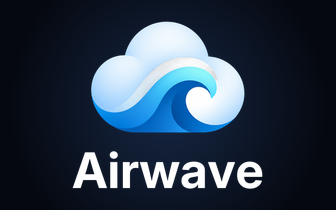
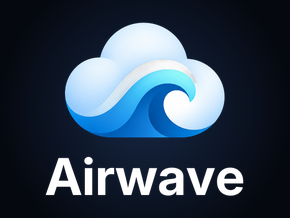
fix: v0.10.65 — Roku store-submission fixes (malformed download, cert pre-scan, launch crash)
Roku Channel Store submission: the real "malformed package" fix + a full pass over Roku's
certification pre-scan, plus a launch-crash fix.

- "Channel package is malformed" was a CORRUPTED DOWNLOAD, not the format: roku-deploy 3.18.2's
  needle HTTP shim decodes the binary .pkg as UTF-8 (every high byte -> U+FFFD), mangling ~1/4 of
  the file. package-roku.ts now downloads the signed .pkg with curl (binary-safe) and verifies 0
  replacement bytes before success.
- Launch crash (&hf4): the memory-monitoring calls used method names from Roku's cert-checker
  wording that aren't real roDeviceInfo methods on current firmware -> hard crash at launch. Now
  wrapped in try/catch (verified booting on the Stick 4K).
- Cert hardening: roInput deep-link handling (main.bs -> MainScene/Guide deepLinkChannelId);
  AppLaunchComplete + AppDialogInitiate/Complete performance beacons; removed deprecated subtitle=
  manifest attr; HD focus icon regenerated at 290x218.
- Packaging: ship SQUASHFS_ZSTD (min firmware v11.0.0 b1); convertToSquashfs:false widens to ~v8.0.

Claude-Session: https://claude.ai/code/session_0141ntBdutphMZLw7DW5jUYJ

diff --git a/apps/tv-roku/scripts/package-roku.ts b/apps/tv-roku/scripts/package-roku.ts
@@ -4,23 +4,35 @@
  *   pnpm -F tv-roku package        (runs `bsc` first, then this — see package.json)
  *
  * Assumes `bsc` has already transpiled the app into out/staging (the `package` npm script chains it).
- * Then it drives roku-deploy's deployAndSignPackage against the Roku in rokudeploy.json: it zips staging,
- * sideloads it, signs the installed channel with your signingPassword, and downloads the signed .pkg —
- * which you upload to the Roku Developer Dashboard.
+ * Then, against the Roku in rokudeploy.json: it zips staging + sideloads (roku-deploy `deploy`), converts
+ * the installed channel to **squashfs** (required by the Channel Store), and **signs** it on-device with
+ * your signingPassword (roku-deploy `signExistingPackage`). Finally it downloads the signed .pkg with
+ * **curl** — NOT roku-deploy's own downloader.
+ *
+ * ⚠ WHY curl instead of roku-deploy's deployAndSignPackage/retrieveSignedPackage: roku-deploy 3.18.2
+ *   swapped its HTTP layer to a `needle` shim whose streaming GET decodes the BINARY .pkg as UTF-8 — every
+ *   high byte collapses to U+FFFD (ef bf bd), corrupting ~1/4 of the file. The device signs a perfect
+ *   package; roku-deploy mangles it on download → the dashboard rejects it as "channel package is
+ *   malformed". curl (digest auth, binary) is what the manual "download the purple link" step does, and is
+ *   what our grab-screenshot script already uses reliably.
  *
  * Prereqs:
  *   • `pnpm -F tv-roku genkey` has been run once (rokudeploy.json has signingPassword + devId).
- *   • The Roku is awake + in Developer Mode and reachable at rokudeploy.json `host`.
+ *   • The Roku is awake + in Developer Mode, and (for signing) LINKED to your Roku account + online.
  *
  * The signed package lands at out/airwave-<version>.pkg (version read from the manifest).
  */
 import { rokuDeploy } from "roku-deploy";
-import { copyFileSync, readFileSync, statSync } from "node:fs";
+import { execFileSync } from "node:child_process";
+import { readFileSync, statSync } from "node:fs";
 import { dirname, join } from "node:path";
 import { fileURLToPath } from "node:url";
 
 const APP = join(dirname(fileURLToPath(import.meta.url)), "..");
 const cfg = JSON.parse(readFileSync(join(APP, "rokudeploy.json"), "utf8"));
+const HOST = cfg.host;
+const USER = cfg.username || "rokudev";
+const PASS = cfg.password;
 
 if (!cfg.signingPassword) {
   console.error(
@@ -30,40 +42,90 @@ if (!cfg.signingPassword) {
   process.exit(1);
 }
 
-/** Read major/minor/build from the manifest → "0.10.62". */
+/** Read major/minor/build from the manifest → "0.10.64". */
 function manifestVersion(): string {
   const m = readFileSync(join(APP, "manifest"), "utf8");
   const g = (k: string) => new RegExp(`^${k}=(\\d+)`, "m").exec(m)?.[1] ?? "0";
   return `${g("major_version")}.${g("minor_version")}.${g("build_version")}`;
 }
 
+/** Count 0xEF 0xBF 0xBD (UTF-8 replacement char) triples — the fingerprint of a UTF-8-mangled binary. */
+function replacementCharCount(buf: Buffer): number {
+  let n = 0;
+  for (let i = 0; i < buf.length - 2; i++) {
+    if (buf[i] === 0xef && buf[i + 1] === 0xbf && buf[i + 2] === 0xbd) n++;
+  }
+  return n;
+}
+
 async function main() {
   const version = manifestVersion();
-  console.log(`Airwave Roku v${version} → Roku ${cfg.host}: package + sign…`);
-  console.log("  (zip staging → sideload → sign with your key → download signed .pkg)\n");
-
-  // deployAndSignPackage uses rootDir/outDir/outFile/files/host/password from cfg + signingPassword to sign.
-  // It returns the local path of the downloaded signed .pkg (out/<outFile-basename>.pkg).
-  // ⚠ convertToSquashfs MUST be on: the Roku Channel Store rejects the older zip-based package as
-  // "channel package is malformed" (sideloading accepts it; the store requires squashfs). Default it on.
-  const signedPkg = await rokuDeploy.deployAndSignPackage({
+  // Compression = package FORMAT → minimum-firmware floor on the dashboard:
+  //   ZIP → v5.2 · CRAMFS → v7.7 · SQUASHFS → v8.0 · SQUASHFS_ZSTD → v11.0.
+  // DECISION (James): ship SQUASHFS_ZSTD (the latest, smallest format) and set the listing's Minimum
+  // Firmware to v11.0.0 b1. Our audience is 4K HDR boxes, which all run OS 11+, and v11 lets us use the
+  // full modern API surface (e.g. the memory-monitoring calls) unguarded. roku-deploy's convertToSquashfs
+  // produces the zstd variant on modern firmware, which is exactly what we want. (The earlier "malformed"
+  // was the download corruption, since fixed via curl — unrelated to the format.)
+  const squashfs = cfg.convertToSquashfs ?? true;
+  const opts = {
     ...cfg,
-    convertToSquashfs: cfg.convertToSquashfs ?? true,
+    convertToSquashfs: squashfs,
+    retainStagingDir: true, // signExistingPackage reads the manifest from staging for the app name
     rootDir: join(APP, cfg.rootDir),
     outDir: join(APP, cfg.outDir),
-  });
+  };
 
-  // Give it a versioned name alongside the default, so successive builds don't overwrite each other.
+  console.log(`Airwave Roku v${version} → Roku ${HOST}: package + sign…`);
+  console.log(`  (zip staging → sideload → ${squashfs ? "squashfs → " : ""}sign → curl-download signed .pkg)\n`);
+
+  process.stdout.write("  · sideloading… ");
+  await rokuDeploy.deploy(opts);
+  console.log("ok");
+
+  if (squashfs) {
+    process.stdout.write("  · converting to squashfs… ");
+    await rokuDeploy.convertToSquashfs(opts);
+    console.log("ok");
+  }
+
+  process.stdout.write("  · signing on-device… ");
+  const remotePkgPath = await rokuDeploy.signExistingPackage(opts); // e.g. "pkgs/Airwave_....pkg"
+  console.log(`ok (${remotePkgPath})`);
+
+  // Download the signed pkg with curl (binary-safe digest auth) — the roku-deploy downloader corrupts it.
   const versioned = join(APP, cfg.outDir, `airwave-${version}.pkg`);
-  copyFileSync(signedPkg, versioned);
-  const kb = (statSync(versioned).size / 1024).toFixed(0);
+  process.stdout.write("  · downloading (curl, binary)… ");
+  const code = execFileSync("curl", [
+    "-sS", "--digest", "-u", `${USER}:${PASS}`, "-m", "60",
+    "-o", versioned, "-w", "%{http_code}",
+    `http://${HOST}/${remotePkgPath.replace(/^\/+/, "")}`,
+  ]).toString().trim();
+  console.log(`HTTP ${code}`);
+  if (code !== "200") {
+    console.error(`\n✗ download failed (HTTP ${code}).\n`);
+    process.exit(1);
+  }
+
+  // Verify it's a real signed package and NOT UTF-8-corrupted.
+  const buf = readFileSync(versioned);
+  const header = buf.subarray(0, 16).toString("latin1");
+  const bad = replacementCharCount(buf);
+  const kb = (buf.length / 1024).toFixed(0);
+  if (!header.startsWith("Roku Channel Pak")) {
+    console.error(`\n✗ not a signed package (header: ${JSON.stringify(header)}). Is the device linked + online?\n`);
+    process.exit(1);
+  }
+  if (bad > 100) {
+    console.error(`\n✗ downloaded package is CORRUPTED (${bad} U+FFFD bytes). The download mangled the binary.\n`);
+    process.exit(1);
+  }
 
   console.log("━".repeat(72));
-  console.log(`  ✅  Signed package ready:  ${versioned}  (${kb} KB)`);
+  console.log(`  ✅  Signed package ready:  ${versioned}  (${kb} KB, clean binary)`);
   console.log("━".repeat(72));
-  console.log("  Upload this .pkg at developer.roku.com → your channel → Package Upload.");
-  console.log("  Reminder: the Channel Store version shown to users comes from the manifest");
-  console.log(`  (currently ${version}) — bump it (via /version-bump) before re-packaging an update.\n`);
+  console.log("  Upload at developer.roku.com → your channel → Package Upload. Minimum Firmware: v11.0.0 b1.");
+  console.log(`  Store version comes from the manifest (${version}) — bump before re-packaging an update.\n`);
 }
 
 main().catch((e) => {

diff --git a/apps/tv-roku/scripts/gen-channel-art.py b/apps/tv-roku/scripts/gen-channel-art.py
@@ -4,7 +4,7 @@ the app's dark radial gradient, at every size the Roku manifest + Channel Store 
 in `apps/tv-native/scripts/gen-app-icons.py`, adapted to Roku's sizes.
 
 Outputs (apps/tv-roku/images/) — these REPLACE the placeholder navy assets the manifest already points at:
-  - icon_focus_hd.png    336x210    home-screen focus icon   (manifest `mm_icon_focus_hd`)
+  - icon_focus_hd.png    290x218    home-screen focus icon   (manifest `mm_icon_focus_hd`)
   - icon_focus_fhd.png   540x405    home-screen focus icon   (manifest `mm_icon_focus_fhd`)
   - splash_hd.png        1280x720   boot splash              (manifest `splash_screen_hd`)
   - splash_fhd.png       1920x1080  boot splash              (manifest `splash_screen_fhd`)
@@ -122,7 +122,7 @@ def make_flat(name: str, w: int, h: int) -> None:
 
 # name, width, height, logo-fraction-of-canvas
 ICONS = [
-    ("icon_focus_hd.png", 336, 210, 0.80),
+    ("icon_focus_hd.png", 290, 218, 0.80),
     ("icon_focus_fhd.png", 540, 405, 0.76),
     ("store-poster-hd.png", 290, 218, 0.80),
     ("store-poster-fhd.png", 540, 405, 0.76),

diff --git a/CHANGELOG.md b/CHANGELOG.md
@@ -2,6 +2,38 @@
 
 All notable changes to Airwave are documented here.
 
+## [0.10.65] - 2026-08-18
+
+Roku **Channel Store submission**: the real "malformed package" fix + a full pass over Roku's certification
+pre-scan, plus a launch-crash fix.
+
+### Fixed
+
+- **"Channel package is malformed" was a CORRUPTED DOWNLOAD, not the format.** roku-deploy 3.18.2's `needle`
+  HTTP shim decodes the binary signed `.pkg` as UTF-8 on download — every high byte collapses to U+FFFD
+  (`ef bf bd`), mangling ~1/4 of the file so the dashboard rejects it. `package-roku.ts` now signs on-device
+  via `roku-deploy` but **downloads the `.pkg` with `curl`** (binary-safe digest auth), and verifies the result
+  has ~0 replacement bytes + a valid `Roku Channel Pak` header before declaring success.
+- **Roku launch crash** (`&hf4`, `EXIT_BRIGHTSCRIPT_UNK_FUNC`): the memory-monitoring calls used method names
+  from Roku's cert-checker wording (`EnableMemoryWarningEvent`, `GetMemoryLimitPercent`, …) that **aren't real
+  `roDeviceInfo` methods on current firmware** — calling them hard-crashed the app at launch. They're now
+  wrapped in `try/catch` so they degrade gracefully (verified booting on the Stick 4K).
+
+### Roku certification hardening (pre-scan pass)
+
+- **`roInput` deep-link handling** (`main.bs` → MainScene/Guide `deepLinkChannelId`) — the manifest already
+  declared `supports_input_launch=1`; the app now handles the events (and tunes a deep-linked channel if present).
+- **Performance beacons:** `AppLaunchComplete` when the guide first renders (`Guide.onGuide`), and
+  `AppDialogInitiate`/`AppDialogComplete` bracketing the pre-home setup/login/diagnostic screens (`MainScene`).
+- **Manifest:** removed the deprecated `subtitle=` attribute.
+- **Channel art:** regenerated the HD focus icon at **290×218** (was 336×210) per the current spec
+  (`gen-channel-art.py`).
+
+### Packaging
+
+- `pnpm -F tv-roku package` ships **SQUASHFS_ZSTD** (min firmware **v11.0.0 b1**) — the latest format, matching
+  the 4K-HDR audience. Set `convertToSquashfs:false` in `rokudeploy.json` to widen reach to ~v8.0 instead.
+
 ## [0.10.64] - 2026-08-18
 
 Roku packaging now builds **squashfs** — fixes the Channel Store's "channel package is malformed" rejection.
